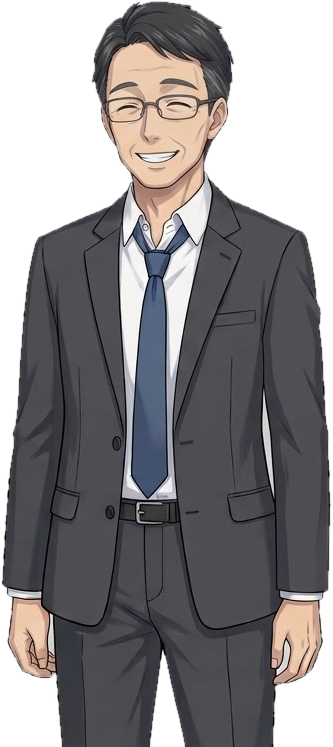
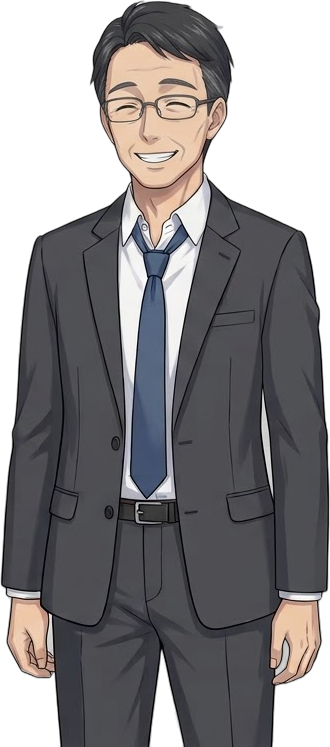
Add Grok Sakura sprites, switch cutout to rembg isnet-anime, re-cut all sprites
Claude-Session: https://claude.ai/code/session_01C1bDaDdhHPUr89bAgEF5W3

diff --git a/tools/cutout.py b/tools/cutout.py
@@ -1,16 +1,70 @@
 #!/usr/bin/env python3
-"""Вырезает персонажа с однотонного фона (белого или серого) в прозрачный PNG.
+"""Вырезает персонажа с фона в прозрачный PNG.
 
-  python3 tools/cutout.py вход.jpg выход.png [--box x0 y0 x1 y1] [--tol 18]
+  python3 tools/cutout.py вход.jpg выход.png [--box x0 y0 x1 y1]
 
-Фон определяется по цвету углов; прозрачным становится только фон, связанный с краем
-картинки, а из оставшегося берётся самая большая фигура — так отсекаются подписи и мусор.
+Использует нейросеть rembg с моделью isnet-anime (pip install "rembg[cpu]"):
+она аккуратно обрабатывает тонкие пряди волос. При первом запуске модель (~176 МБ)
+скачивается в ~/.rembg. Если на картинке несколько фигур (лист с позами),
+нужную вырезают через --box; из маски берётся самая большая фигура,
+так что подписи и соседи отсекаются.
 """
 import argparse
-from collections import deque
 
 import numpy as np
-from PIL import Image, ImageFilter
+from PIL import Image
+from rembg import new_session, remove
+
+_session = None
+
+
+def largest_component(mask):
+    from collections import deque
+    h, w = mask.shape
+    label = np.zeros((h, w), np.int32)
+    best, best_n, cur = 0, 0, 0
+    q = deque()
+    for y0, x0 in zip(*np.nonzero(mask)):
+        if label[y0, x0]:
+            continue
+        cur += 1
+        n = 0
+        label[y0, x0] = cur
+        q.append((y0, x0))
+        while q:
+            y, x = q.popleft()
+            n += 1
+            for ny, nx in ((y + 1, x), (y - 1, x), (y, x + 1), (y, x - 1)):
+                if 0 <= ny < h and 0 <= nx < w and mask[ny, nx] and not label[ny, nx]:
+                    label[ny, nx] = cur
+                    q.append((ny, nx))
+        if n > best_n:
+            best, best_n = cur, n
+    return label == best
+
+
+def cutout(src, out, box=None):
+    global _session
+    if _session is None:
+        _session = new_session("isnet-anime")
+    im = Image.open(src).convert("RGB")
+    if box:
+        im = im.crop(box)
+    res = np.array(remove(im, session=_session))
+    alpha = res[:, :, 3]
+    alpha[alpha < 10] = 0
+    # маленькая копия маски — чтобы быстро найти главную фигуру
+    small = Image.fromarray(alpha).resize((max(1, alpha.shape[1] // 4), max(1, alpha.shape[0] // 4)))
+    keep = largest_component(np.array(small) > 40)
+    keep = np.array(Image.fromarray(keep.astype(np.uint8) * 255).resize(alpha.shape[::-1])) > 0
+    # чуть расширить, чтобы не срезать мягкие края
+    keep = np.array(Image.fromarray(keep.astype(np.uint8) * 255).filter(__import__("PIL.ImageFilter").ImageFilter.MaxFilter(9))) > 0
+    alpha[~keep] = 0
+    res[:, :, 3] = alpha
+    img = Image.fromarray(res)
+    img = img.crop(img.getbbox())
+    img.save(out)
+    print(out, img.size)
 
 
 def main():
@@ -18,64 +72,8 @@ def main():
     p.add_argument("src")
     p.add_argument("out")
     p.add_argument("--box", nargs=4, type=int)
-    p.add_argument("--tol", type=float, default=18)
-    p.add_argument("--height", type=int, default=0, help="масштабировать до этой высоты")
     a = p.parse_args()
-
-    im = Image.open(a.src).convert("RGB")
-    if a.box:
-        im = im.crop(a.box)
-    px = np.asarray(im).astype(np.int16)
-    h, w, _ = px.shape
-    corners = np.array([px[2, 2], px[2, w - 3], px[h - 3, 2], px[h - 3, w - 3]])
-    bg = np.median(corners, axis=0)
-    # близко к цвету фона и почти без насыщенности
-    dist = np.abs(px - bg).max(axis=2)
-    sat = px.max(axis=2) - px.min(axis=2)
-    bgish = (dist < a.tol) & (sat < 14)
-
-    # фон, связанный с краем
-    seen = np.zeros((h, w), bool)
-    q = deque()
-    for x in range(w):
-        for y in (0, h - 1):
-            if bgish[y, x]:
-                q.append((y, x)); seen[y, x] = True
-    for y in range(h):
-        for x in (0, w - 1):
-            if bgish[y, x] and not seen[y, x]:
-                q.append((y, x)); seen[y, x] = True
-    while q:
-        y, x = q.popleft()
-        for ny, nx in ((y + 1, x), (y - 1, x), (y, x + 1), (y, x - 1)):
-            if 0 <= ny < h and 0 <= nx < w and not seen[ny, nx] and bgish[ny, nx]:
-                seen[ny, nx] = True; q.append((ny, nx))
-    fg = ~seen
-
-    # оставить самую большую фигуру
-    label = np.zeros((h, w), np.int32)
-    best, best_n, cur = 0, 0, 0
-    for y0 in range(h):
-        for x0 in range(w):
-            if fg[y0, x0] and not label[y0, x0]:
-                cur += 1; n = 0
-                label[y0, x0] = cur; q.append((y0, x0))
-                while q:
-                    y, x = q.popleft(); n += 1
-                    for ny, nx in ((y + 1, x), (y - 1, x), (y, x + 1), (y, x - 1)):
-                        if 0 <= ny < h and 0 <= nx < w and fg[ny, nx] and not label[ny, nx]:
-                            label[ny, nx] = cur; q.append((ny, nx))
-                if n > best_n:
-                    best, best_n = cur, n
-    mask = Image.fromarray(((label == best) * 255).astype(np.uint8))
-    mask = mask.filter(ImageFilter.MinFilter(3)).filter(ImageFilter.GaussianBlur(0.8))
-    out = im.convert("RGBA")
-    out.putalpha(mask)
-    out = out.crop(out.getbbox())
-    if a.height:
-        out = out.resize((round(out.width * a.height / out.height), a.height), Image.LANCZOS)
-    out.save(a.out)
-    print(a.out, out.size)
+    cutout(a.src, a.out, a.box)
 
 
 if __name__ == "__main__":

diff --git a/assets/PROMPTS.md b/assets/PROMPTS.md
@@ -36,7 +36,7 @@ plain white background. Change only the expression: …».
 
 | Персонаж | База | Эмоции |
 |---|---|---|
-| Сакура | ✅ уже есть (Canva) | улыбка ✅, смех ✅, удивление ✅, смущение ✅, задумчивость ✅ |
+| Сакура | ✅ Grok, `src/sakura-grok/` | smile · happy · surprised · embarrassed · sad |
 | `chars/hiroshi` | Japanese father in his late 40s, short black hair with a little grey, rectangular glasses, kind tired face, grey business suit with a loosened blue tie, car keys in hand. | спокойный · улыбка · смущённый смех · серьёзный |
 | `chars/yumiko` | Japanese mother in her mid 40s, shoulder-length dark brown hair tied back loosely, gentle eyes, soft orange cardigan over a cream blouse, white apron. | улыбка · радостное удивление · смех |
 | `chars/kenta` | Japanese boy, 12 years old, messy spiky black hair, mischievous grin, green dinosaur-print pajamas. | хитрая улыбка · восторг («медведи!») · подозрительный прищур |
@@ -57,3 +57,8 @@ plain white background. Change only the expression: …».
 | `src/girl-cardigan.jpg` | Gemini | будущая **молодая Вера, 1976** — для сцен-воспоминаний (акты 4–5, эпилог); ключ на шее — от жестяной коробки |
 | `bg/airport-gemini.jpg` | Gemini | запасной: зал вылета днём, табло с ошибками в тексте |
 | Сакура × 6 | Canva | лежат в Canva, нужно скачать и загрузить сюда |
+
+## Вырезание фона
+`python3 tools/cutout.py src.jpg out.png [--box x0 y0 x1 y1]` — нейросеть rembg (модель isnet-anime),
+чисто обрабатывает пряди волос. Для листов с несколькими позами — `--box` на каждую.
+Генераторы, которые хорошо справились: Gemini (фоны, взрослые персонажи), Grok (Сакура).
